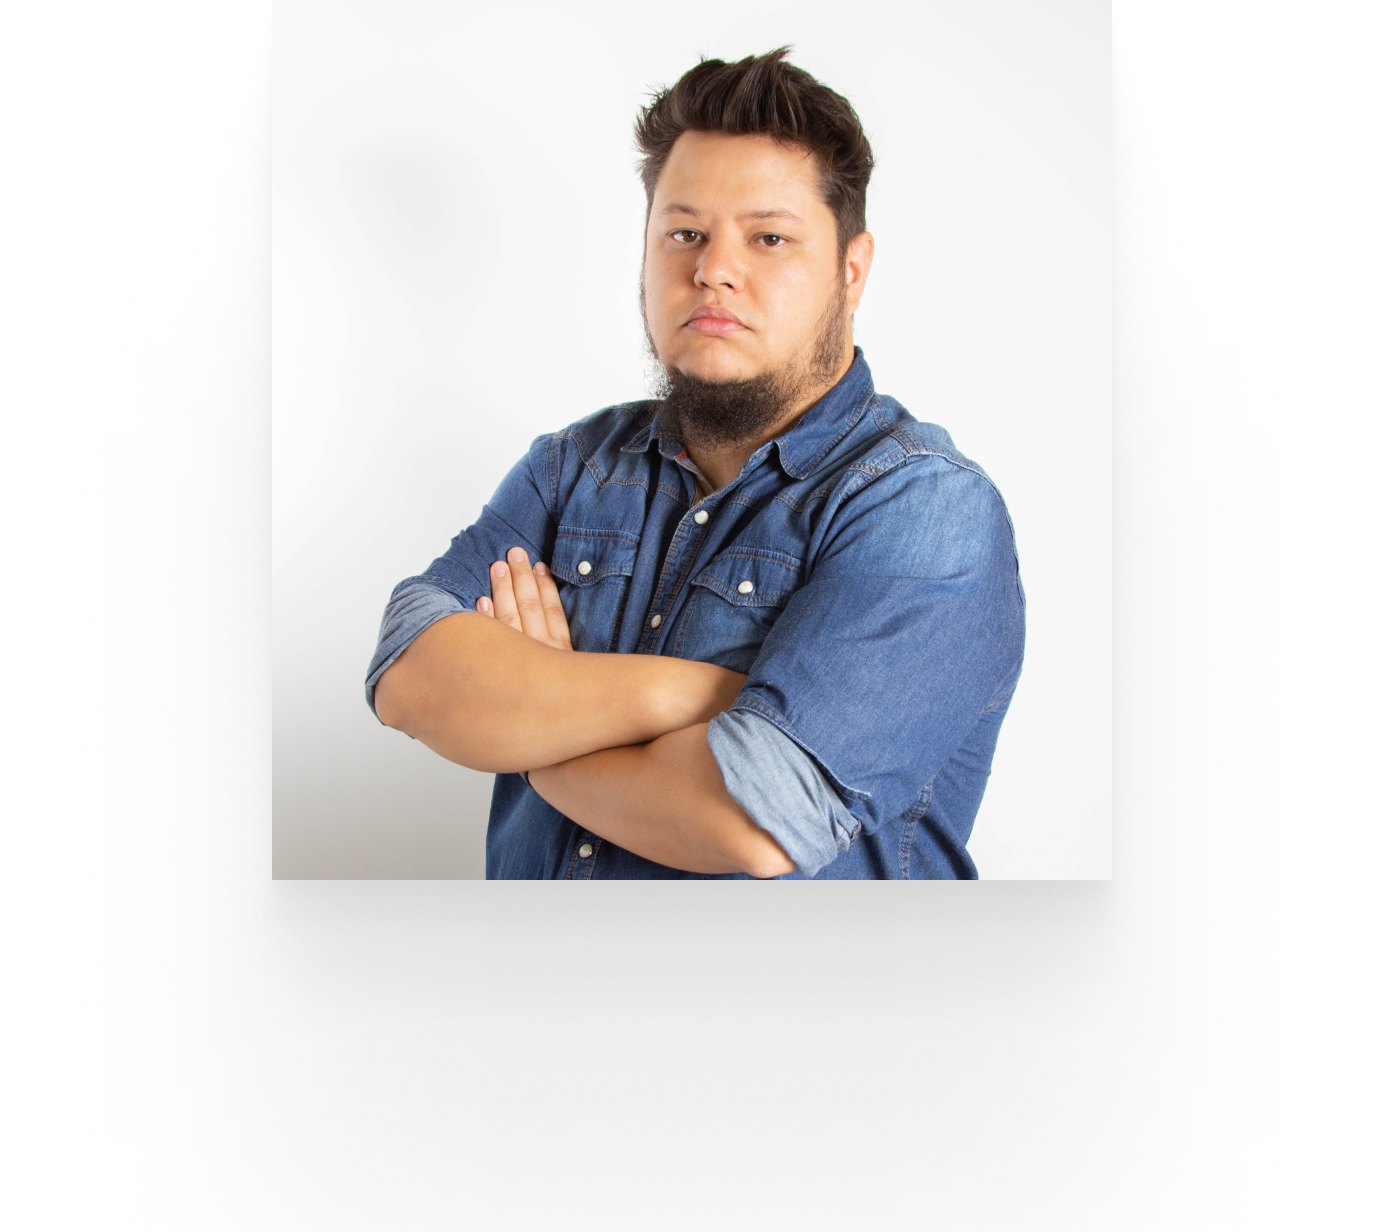
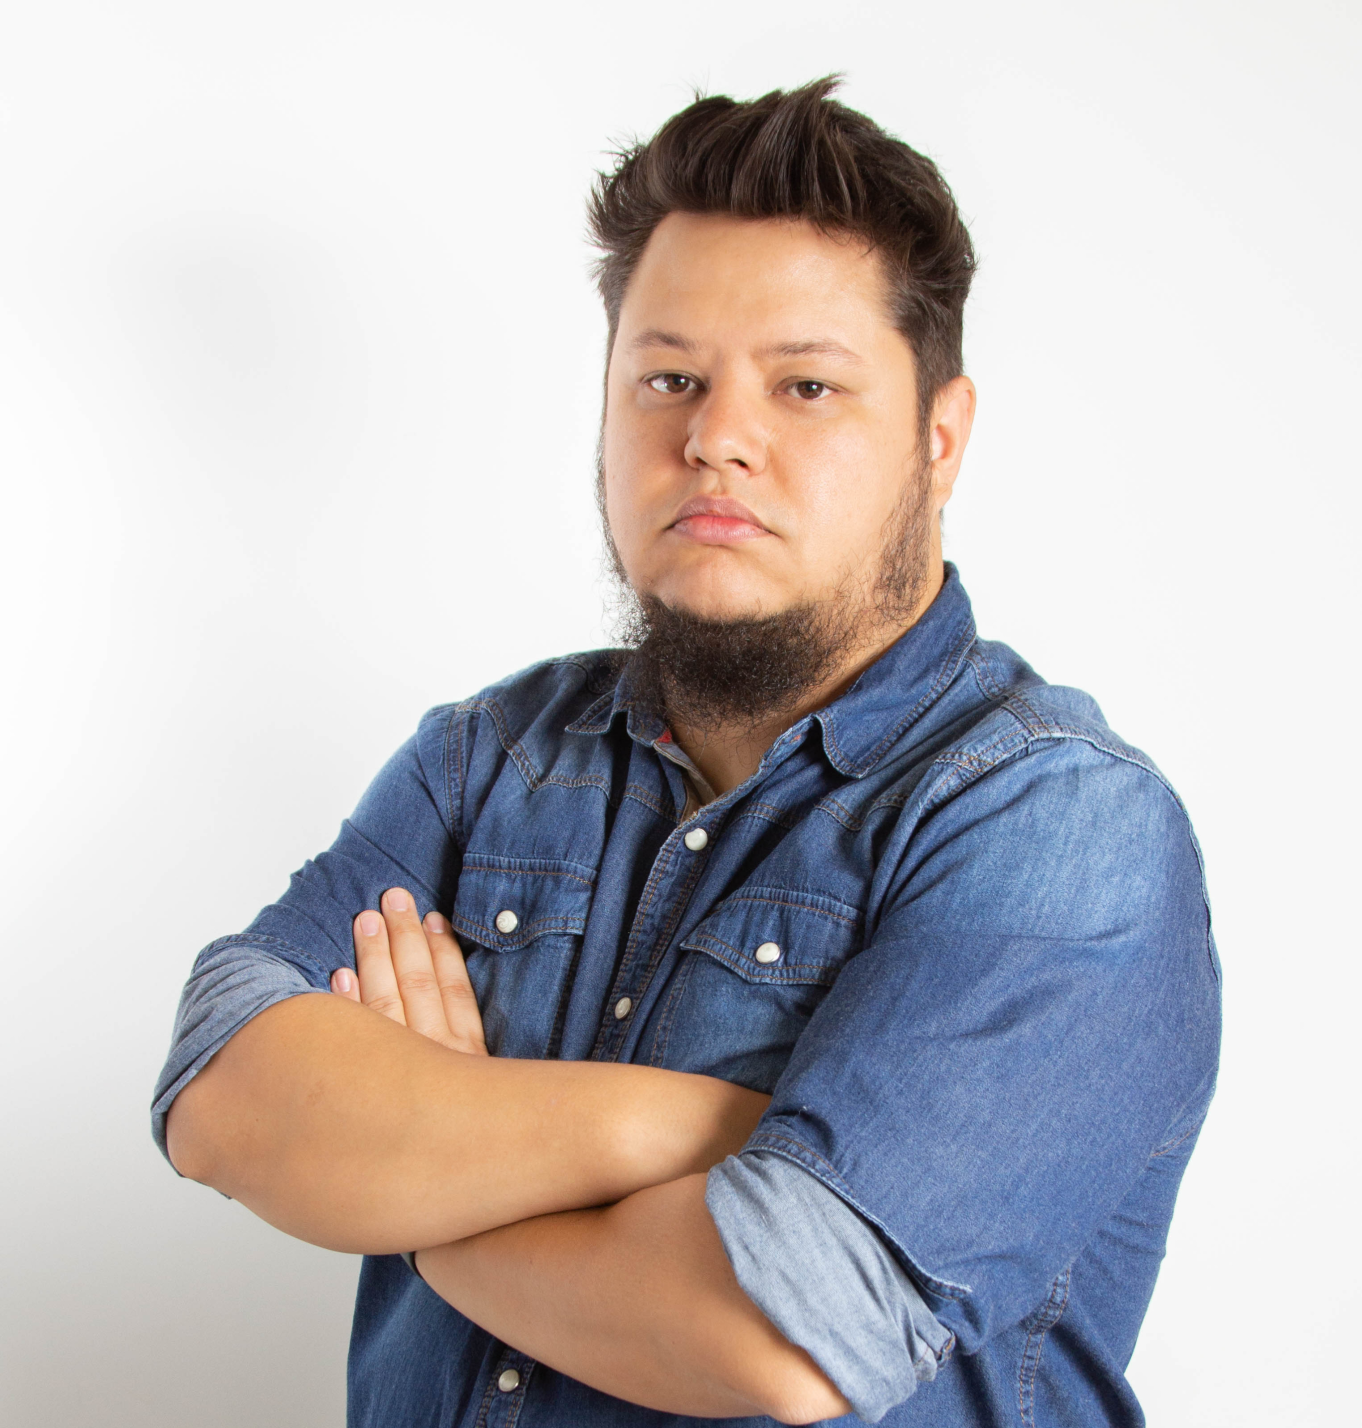
mobile-autor

diff --git a/index.html b/index.html
@@ -21,24 +21,13 @@
                         <p>Lorem ipsum dolor sit amet consectetur adipisicing elit. Adipisci aliquam ea porro iusto pariatur similique praesentium quam doloremque ipsam eligendi doloribus, dolores tenetur necessitatibus enim accusamus, rem numquam vel illum.
                         Ipsa animi porro ipsam fuga voluptatum. Optio necessitatibus rem, ab blanditiis eum consequuntur similique vero officiis debitis sapiente tenetur, quidem laboriosam quas nisi ad est qui dolorem sed perferendis! Rerum!</p>
                         <a href="#" class="btn-cta">Compre Agora</a>
-                        <a class="neon-bt" href="#">
-
-                            <span></span>
-                      
-                            <span></span>
-                      
-                            <span></span>
-                      
-                            <span></span>
-                      
-                            Compre Agora
-                      
-                          </a>
                     </div>
+
                     <div class="hero-img"><img src="./assets/img/livro-mockup.png" alt="Livro Metaverso e Web 3.0"></div>
                 </div>
             </div>
         </section>
+
         <section class="autor container">
             <div class="tit">
                 <h2>Sobre o autor</h2>
@@ -52,9 +41,11 @@
                     <p>Lorem ipsum dolor sit amet, consectetur adipiscing elit. Donec feugiat velit non purus feugiat viverra. Lorem ipsum dolor sit amet, consectetur adipiscing elit. Donec bibendum a odio vitae posuere. Nam pulvinar cursus est in porta. Donec laoreet pellentesque magna vel pulvinar. Lorem ipsum dolor sit amet, consectetur adipiscing elit. Donec feugiat velit non purus feugiat viverra. Lorem ipsum dolor sit amet, consectetur adipiscing elit.</p>
                     <div class="autor-sociais">
                         <ul>
-                            <li><a href="#"><img src="./assets/img/fb.svg" alt="Ícone do Facebook"></a></li>
+                            <li><a href="#"><img src="./assets/img/in.svg" alt="Ícone do Linkedin"></a></li>
                             <li><a href="#"><img src="./assets/img/tt.svg" alt="Ícone do Twitter"></a></li>
                             <li><a href="#"><img src="./assets/img/zap.svg" alt="Ícone do Whatsapp"></a></li>
+                            <li><a href="#"><img src="./assets/img/tg.svg" alt="Ícone do Telegram"></a></li>
+                            <li><a href="#"><img src="./assets/img/dc.svg" alt="Ícone do Discord"></a></li>
                             <li><a href="#"><img src="./assets/img/ig.svg" alt="Ícone do Instagram"></a></li>
                         </ul>
                     </div>
@@ -64,8 +55,8 @@
     </main>
 
     <footer>
-        <p>Fernando Souza 2022. Todos os direitos reservados | &#160;</p>
-        <a href="agenciasolary.com.br"> Desenvolvido por Solary</a>
+        <p>Fernando Souza 2022. Todos os direitos reservados<span> |</span> &#160;</p>
+        <a href="https://agenciasolary.com.br"> Desenvolvido por Solary</a>
     </footer>
 </body>
 </html>

diff --git a/assets/css/hero.css b/assets/css/hero.css
@@ -62,18 +62,6 @@
     }
   
     .btn-cta {
-      font-size: 1.125rem;
-      letter-spacing: 0.1em;
-      color: #FFF;
-      background: #006494;
-      border: 1px solid #DAF8EE;
-      box-shadow: 0px 0px 6px #069FD0;
-      border-radius: 5px;
-      text-decoration: none;
-      text-transform: uppercase;
-      padding: 1rem 2rem;
-      display: inline-block;
-      margin-top: 40px;
       text-align: center;
     }
   
@@ -83,121 +71,9 @@
       justify-content: center;
     }
   
-    img {
+    #hero img {
       max-width: 100%;
       transform: scale(1.2);
-      margin-bottom: 1rem;
-    }
-  }
-
-  .neon-bt {
-    position: relative;
-    margin-top: 40px;
-    font-weight: 700;
-    font-size: 1.25rem;
-    letter-spacing: 0.1em;
-    display: inline-block;
-    padding: 1rem 2rem;
-    color: #03e9f4;
-    text-decoration: none;
-    text-transform: uppercase;
-    overflow: hidden;
-    transition: 0.2s;
-    text-align: center;
-
-  }
-  
-  .neon-bt:hover {
-    background: #03e9f4;
-    color: #fff;
-    border-radius: 5px;
-    box-shadow: 0 0 5px #03e9f4,
-                0 0 25px #03e9f4,
-                0 0 50px #03e9f4,
-                0 0 100px #03e9f4;
-  }
-
-  /*animação do span para criar linhas*/
-  .neon-bt span {
-    position: absolute;
-    display: block;
-  }
-  
-  /*span 1*/
-  .neon-bt span:nth-child(1) {
-    top: 0;
-    left: -100%;
-    width: 100%;
-    height: 2px;
-    background: linear-gradient(90deg, transparent, #03e9f4);
-    animation: btn-anim1 1s linear infinite;
-  }
-  
-  @keyframes btn-anim1 {
-    0% {
-      left: -100%;
-    }
-    50%,100% {
-      left: 100%;
-    }
-  }
-  
-  /*span 2*/
-  .neon-bt span:nth-child(2) {
-    top: -100%;
-    right: 0;
-    width: 2px;
-    height: 100%;
-    background: linear-gradient(180deg, transparent, #03e9f4);
-    animation: btn-anim2 1s linear infinite;
-    animation-delay: .25s
-  }
-  
-  @keyframes btn-anim2 {
-    0% {
-      top: -100%;
-    }
-    50%,100% {
-      top: 100%;
-    }
-  }
-  
-  /*span 3*/
-  .neon-bt span:nth-child(3) {
-    bottom: 0;
-    right: -100%;
-    width: 100%;
-    height: 2px;
-    background: linear-gradient(270deg, transparent, #03e9f4);
-    animation: btn-anim3 1s linear infinite;
-    animation-delay: .5s
-  }
-  
-  @keyframes btn-anim3 {
-    0% {
-      right: -100%;
-    }
-    50%,100% {
-      right: 100%;
-    }
-  }
-   
-  /*span 4*/
-  .neon-bt span:nth-child(4) {
-    bottom: -100%;
-    left: 0;
-    width: 2px;
-    height: 100%;
-    background: linear-gradient(360deg, transparent, #03e9f4);
-    animation: btn-anim4 1s linear infinite;
-    animation-delay: .75s
-  }
-   
-  @keyframes btn-anim4 {
-    0% {
-      bottom: -100%;
-    }
-    50%,100% {
-      bottom: 100%;
+      margin-bottom: 2rem;
     }
   }

diff --git a/assets/css/autor.css b/assets/css/autor.css
@@ -56,10 +56,14 @@
 .autor-img {
     max-height: 500px;
     filter: drop-shadow(0px 168.987px 135.189px rgba(0, 0, 0, 0.07)) drop-shadow(0px 50.9446px 40.7557px rgba(0, 0, 0, 0.0456112)) drop-shadow(0px 21.1598px 16.9278px rgba(0, 0, 0, 0.035)) drop-shadow(0px 7.65308px 6.12246px rgba(0, 0, 0, 0.0243888));
+    display: flex;
+    justify-content: flex-end;
+    margin-right: 5rem;
 }
 
-.autor-img img {
-    border-radius: 50px !important;
+img {
+    /* display: none; */
+    max-height: 400px !important;
 }
 
 .autor-txt p {
@@ -82,4 +86,72 @@
 
 .autor-sociais a:hover {
     opacity: 1;
+}
+
+@media (max-width: 800px){
+    .autor-icon {
+        position: relative;
+        display: flex;
+        align-items: center;
+        justify-content: center;
+    }
+    
+    .autor-icon:hover .det-2 {
+        width: 100px;
+        transition: .3s;
+    }
+    
+    .autor-icon:hover .det-1 {
+        width: 100px;
+        transition: .3s;
+    }
+
+    .autor-img {
+        margin-right: 0rem;
+    }
+    
+    .autor-icon img {
+        display: none;
+    }
+    
+    .det-1 {
+        display: none;
+    }
+    
+    .det-2 {
+        display: none;
+    }
+    
+    .autor-grid {
+        grid-template-columns: 1fr;
+        padding: 60px 20px;
+        gap: 0px;
+    }
+
+    .autor-txt {
+        margin-top: 2rem;
+        display: grid;
+        grid-template-rows: auto auto auto;
+    }
+
+    .autor-sociais {
+        grid-row: 1;
+        display: flex;
+        justify-content: center;
+        margin-bottom: 1rem;
+    }
+    
+    .autor-txt p {
+        opacity: .5;
+        margin-top: 20px;
+        line-height: 140%;
+        margin-bottom: 0px;
+    }
+    
+    .autor-sociais ul {
+        display: flex;
+        list-style: none;
+        gap: 1.5rem;
+    }
+    
 }

diff --git a/assets/css/style.css b/assets/css/style.css
@@ -42,14 +42,34 @@ h2 {
 
 h3 {
 font-size: 2rem;
-line-height: 28px;
-/* identical to box height, or 88% */
-
-
-color: #1E1E1E
+color: var(--black);
 }
+
 .container {
     border: 2px solid red;
     max-width: 1400px;
     margin: 0 auto;
+  }
+
+  @media (max-width: 800px){
+  
+    h1 {
+      font-weight: 700;
+      font-size: 3rem;
+    }
+  
+  h2 {
+      padding: 60px 0 0px 0;
+  }
+  
+  h3 {
+  font-size: 2rem;
+  color: var(--black);
+  }
+
+  .container {
+      border: 2px solid red;
+      max-width: 1400px;
+      margin: 0 auto;
+    }
   }

diff --git a/assets/css/footer.css b/assets/css/footer.css
@@ -16,3 +16,18 @@ footer a:hover {
     text-decoration: underline;
     color: #fff;
 }
+
+@media (max-width: 800px){
+    footer {
+        display: inline-block;
+        text-align: center;
+    }
+
+    footer span {
+        display:none;
+    }
+    
+    footer a {
+        text-decoration: underline;
+    }
+}
